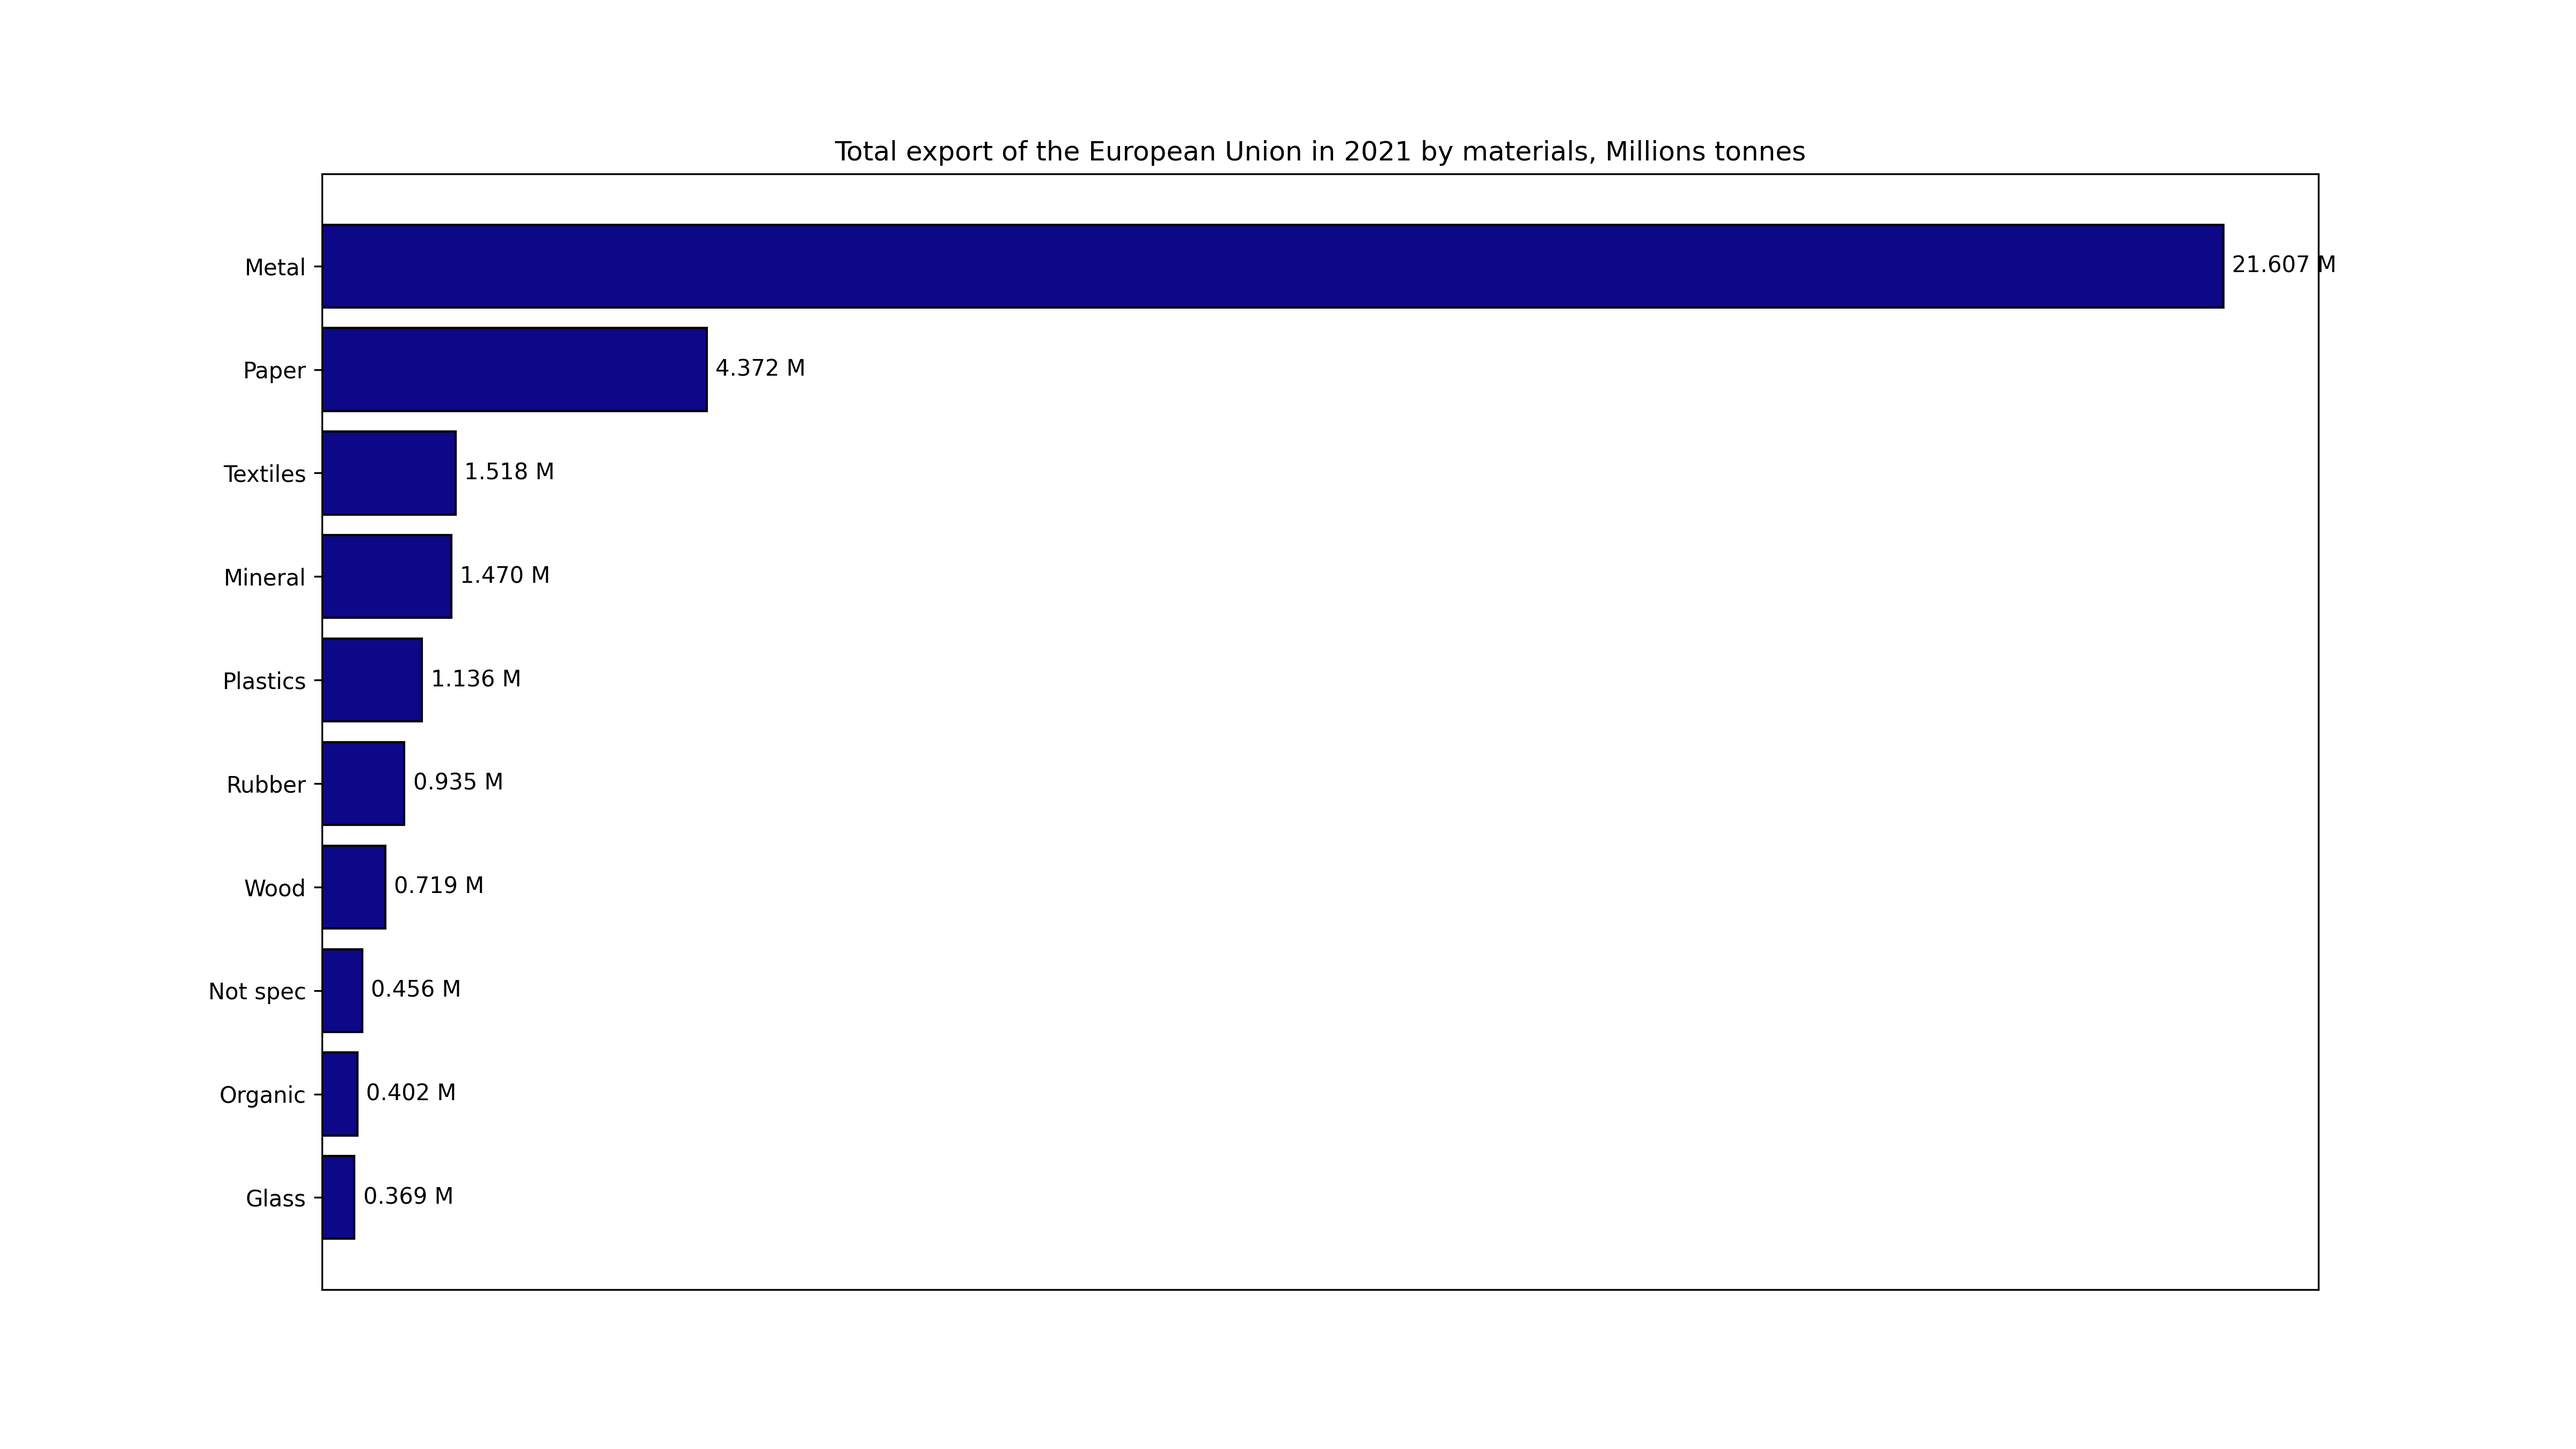
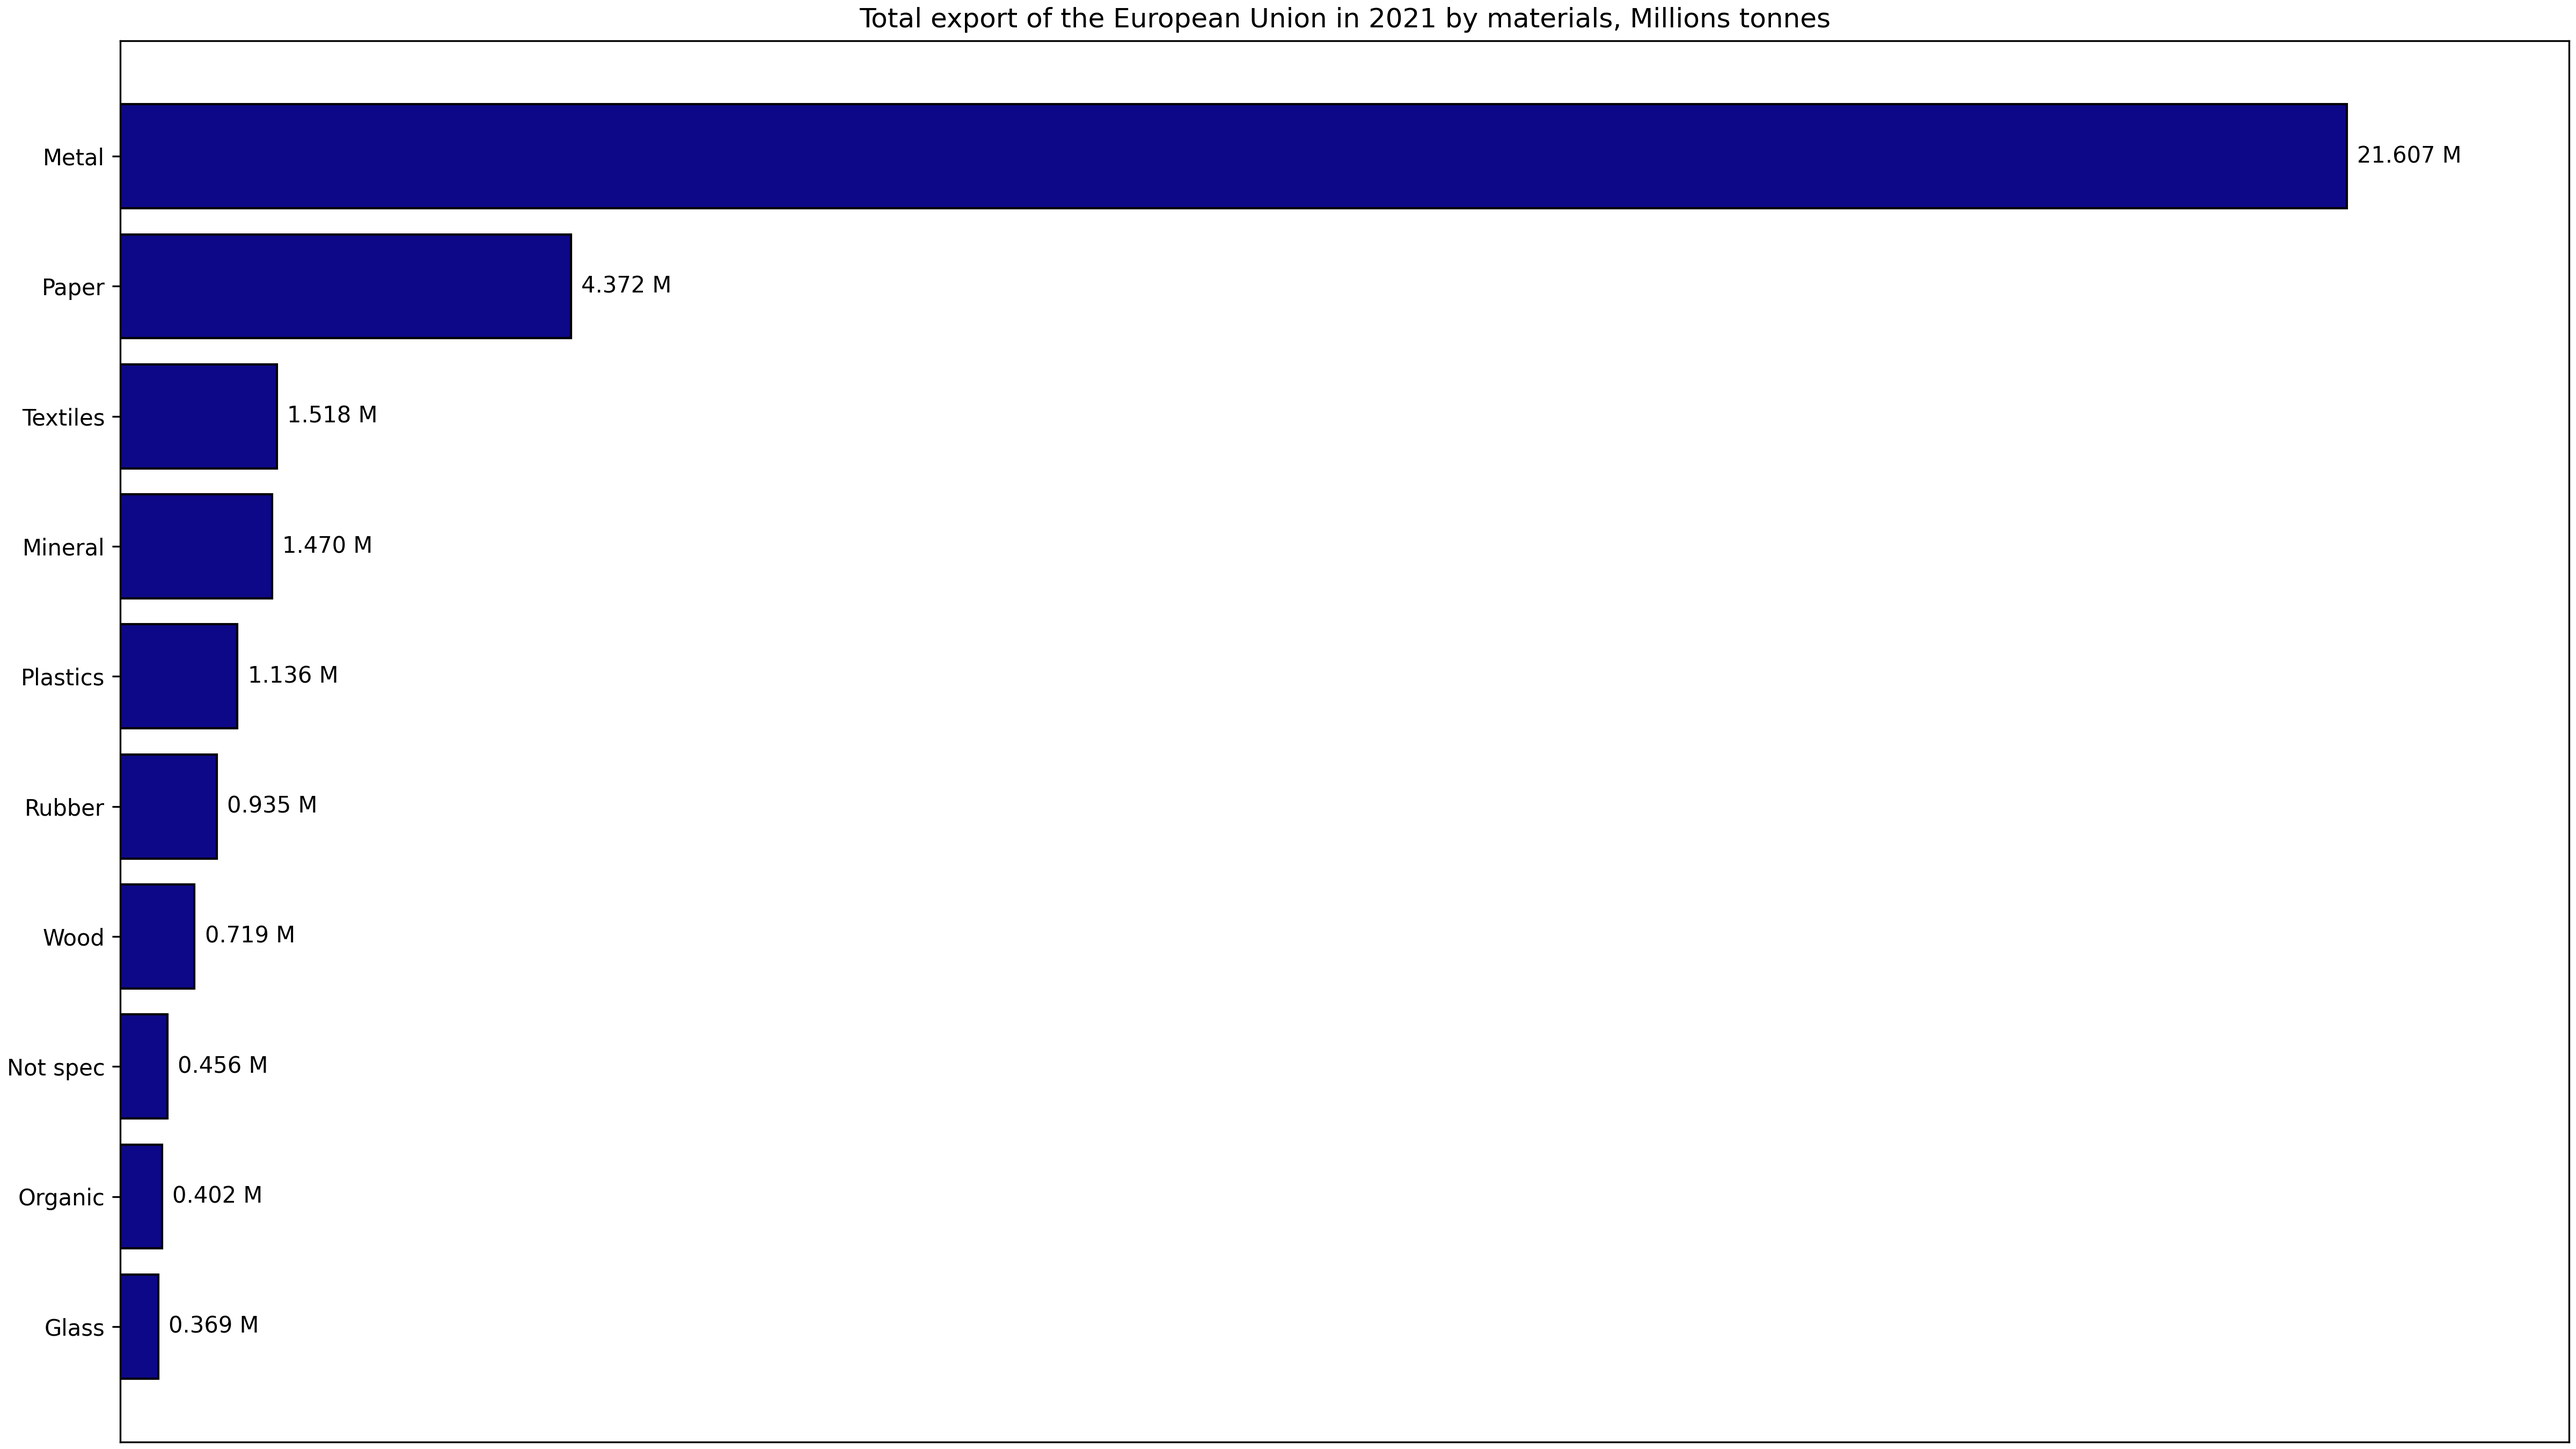
Refresh image

Changed region(s): [[0.0, 0.0622, 0.9375, 0.9644], [0.0625, 0.9956, 1.0, 1.0], [0.3125, 0.0, 0.7188, 0.0311]]

diff --git a/scripts/visual_eu_export_2021_by_materials.py b/scripts/visual_eu_export_2021_by_materials.py
@@ -30,7 +30,7 @@ for bar, value in zip(bars, eu_export_2021['tonne']):
 ax.set_xlim(0, max(eu_export_2021['tonne']) * 1.1)
 ax.xaxis.set_visible(False)
 
-# plt.savefig('..//assets//eu_export_2021_by_materials.png', dpi=300)
+plt.savefig('..//assets//eu_export_2021_by_materials.png', dpi=300)
 plt.show()
 
 
